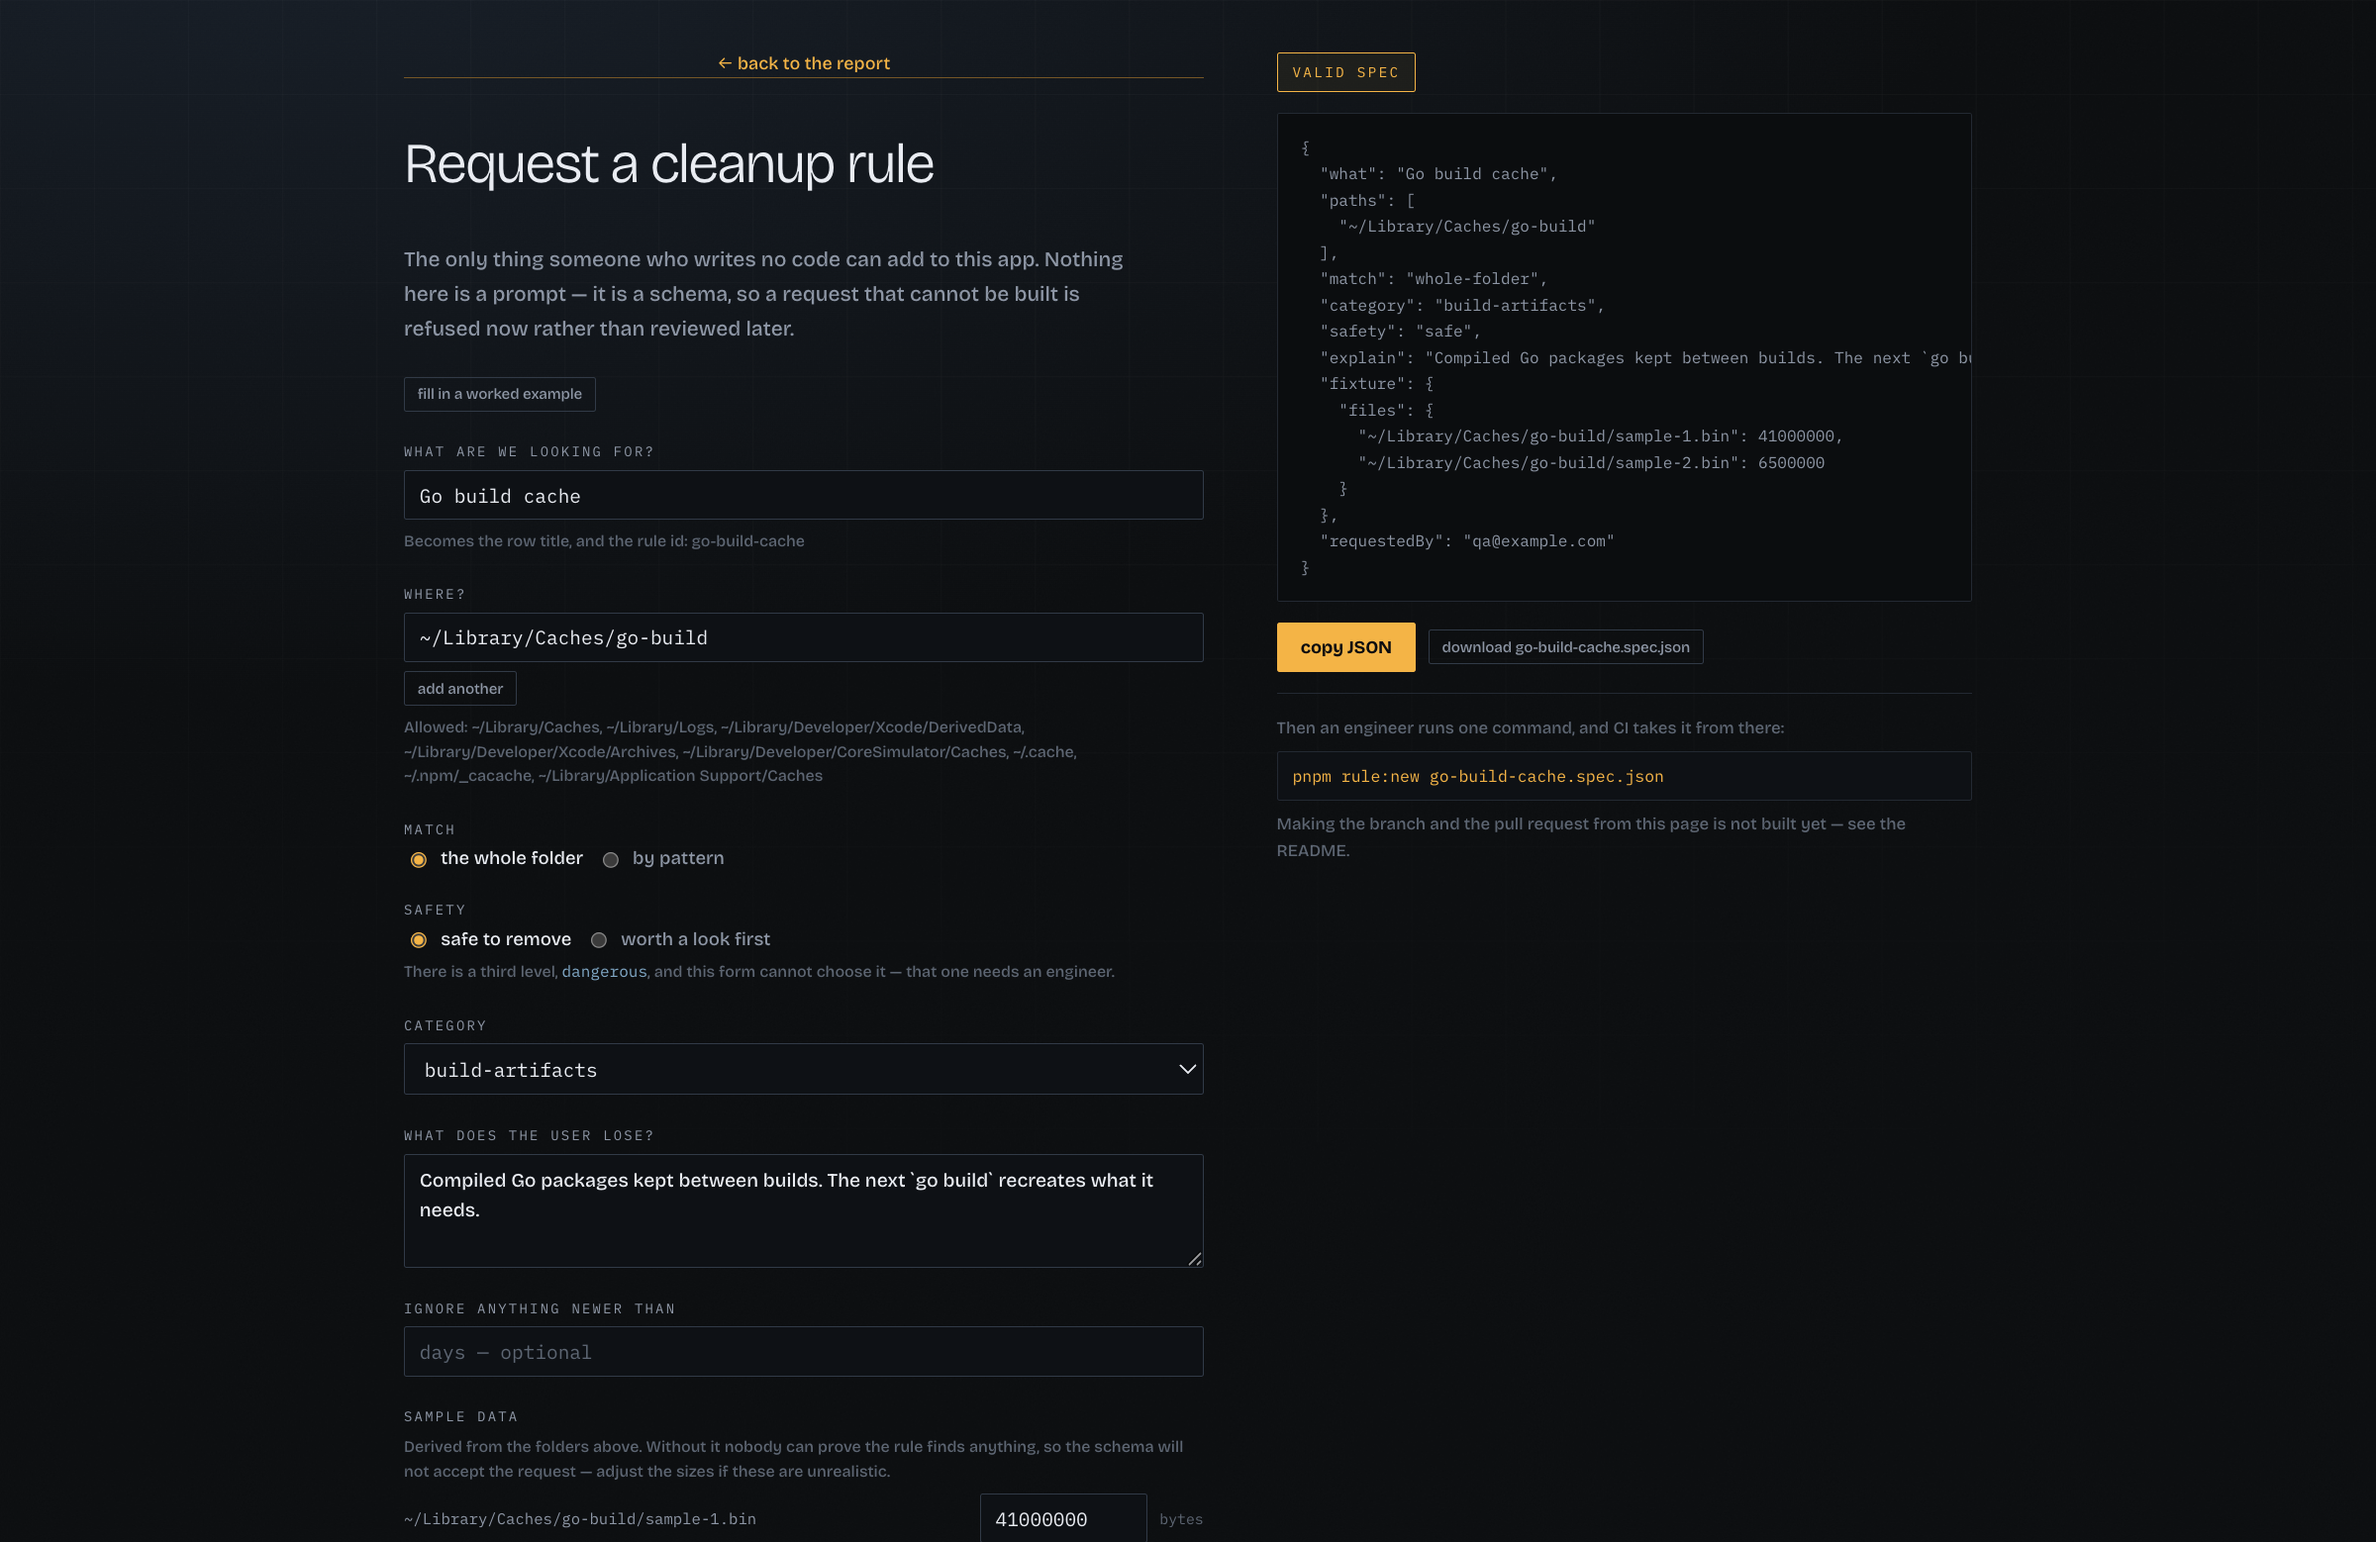
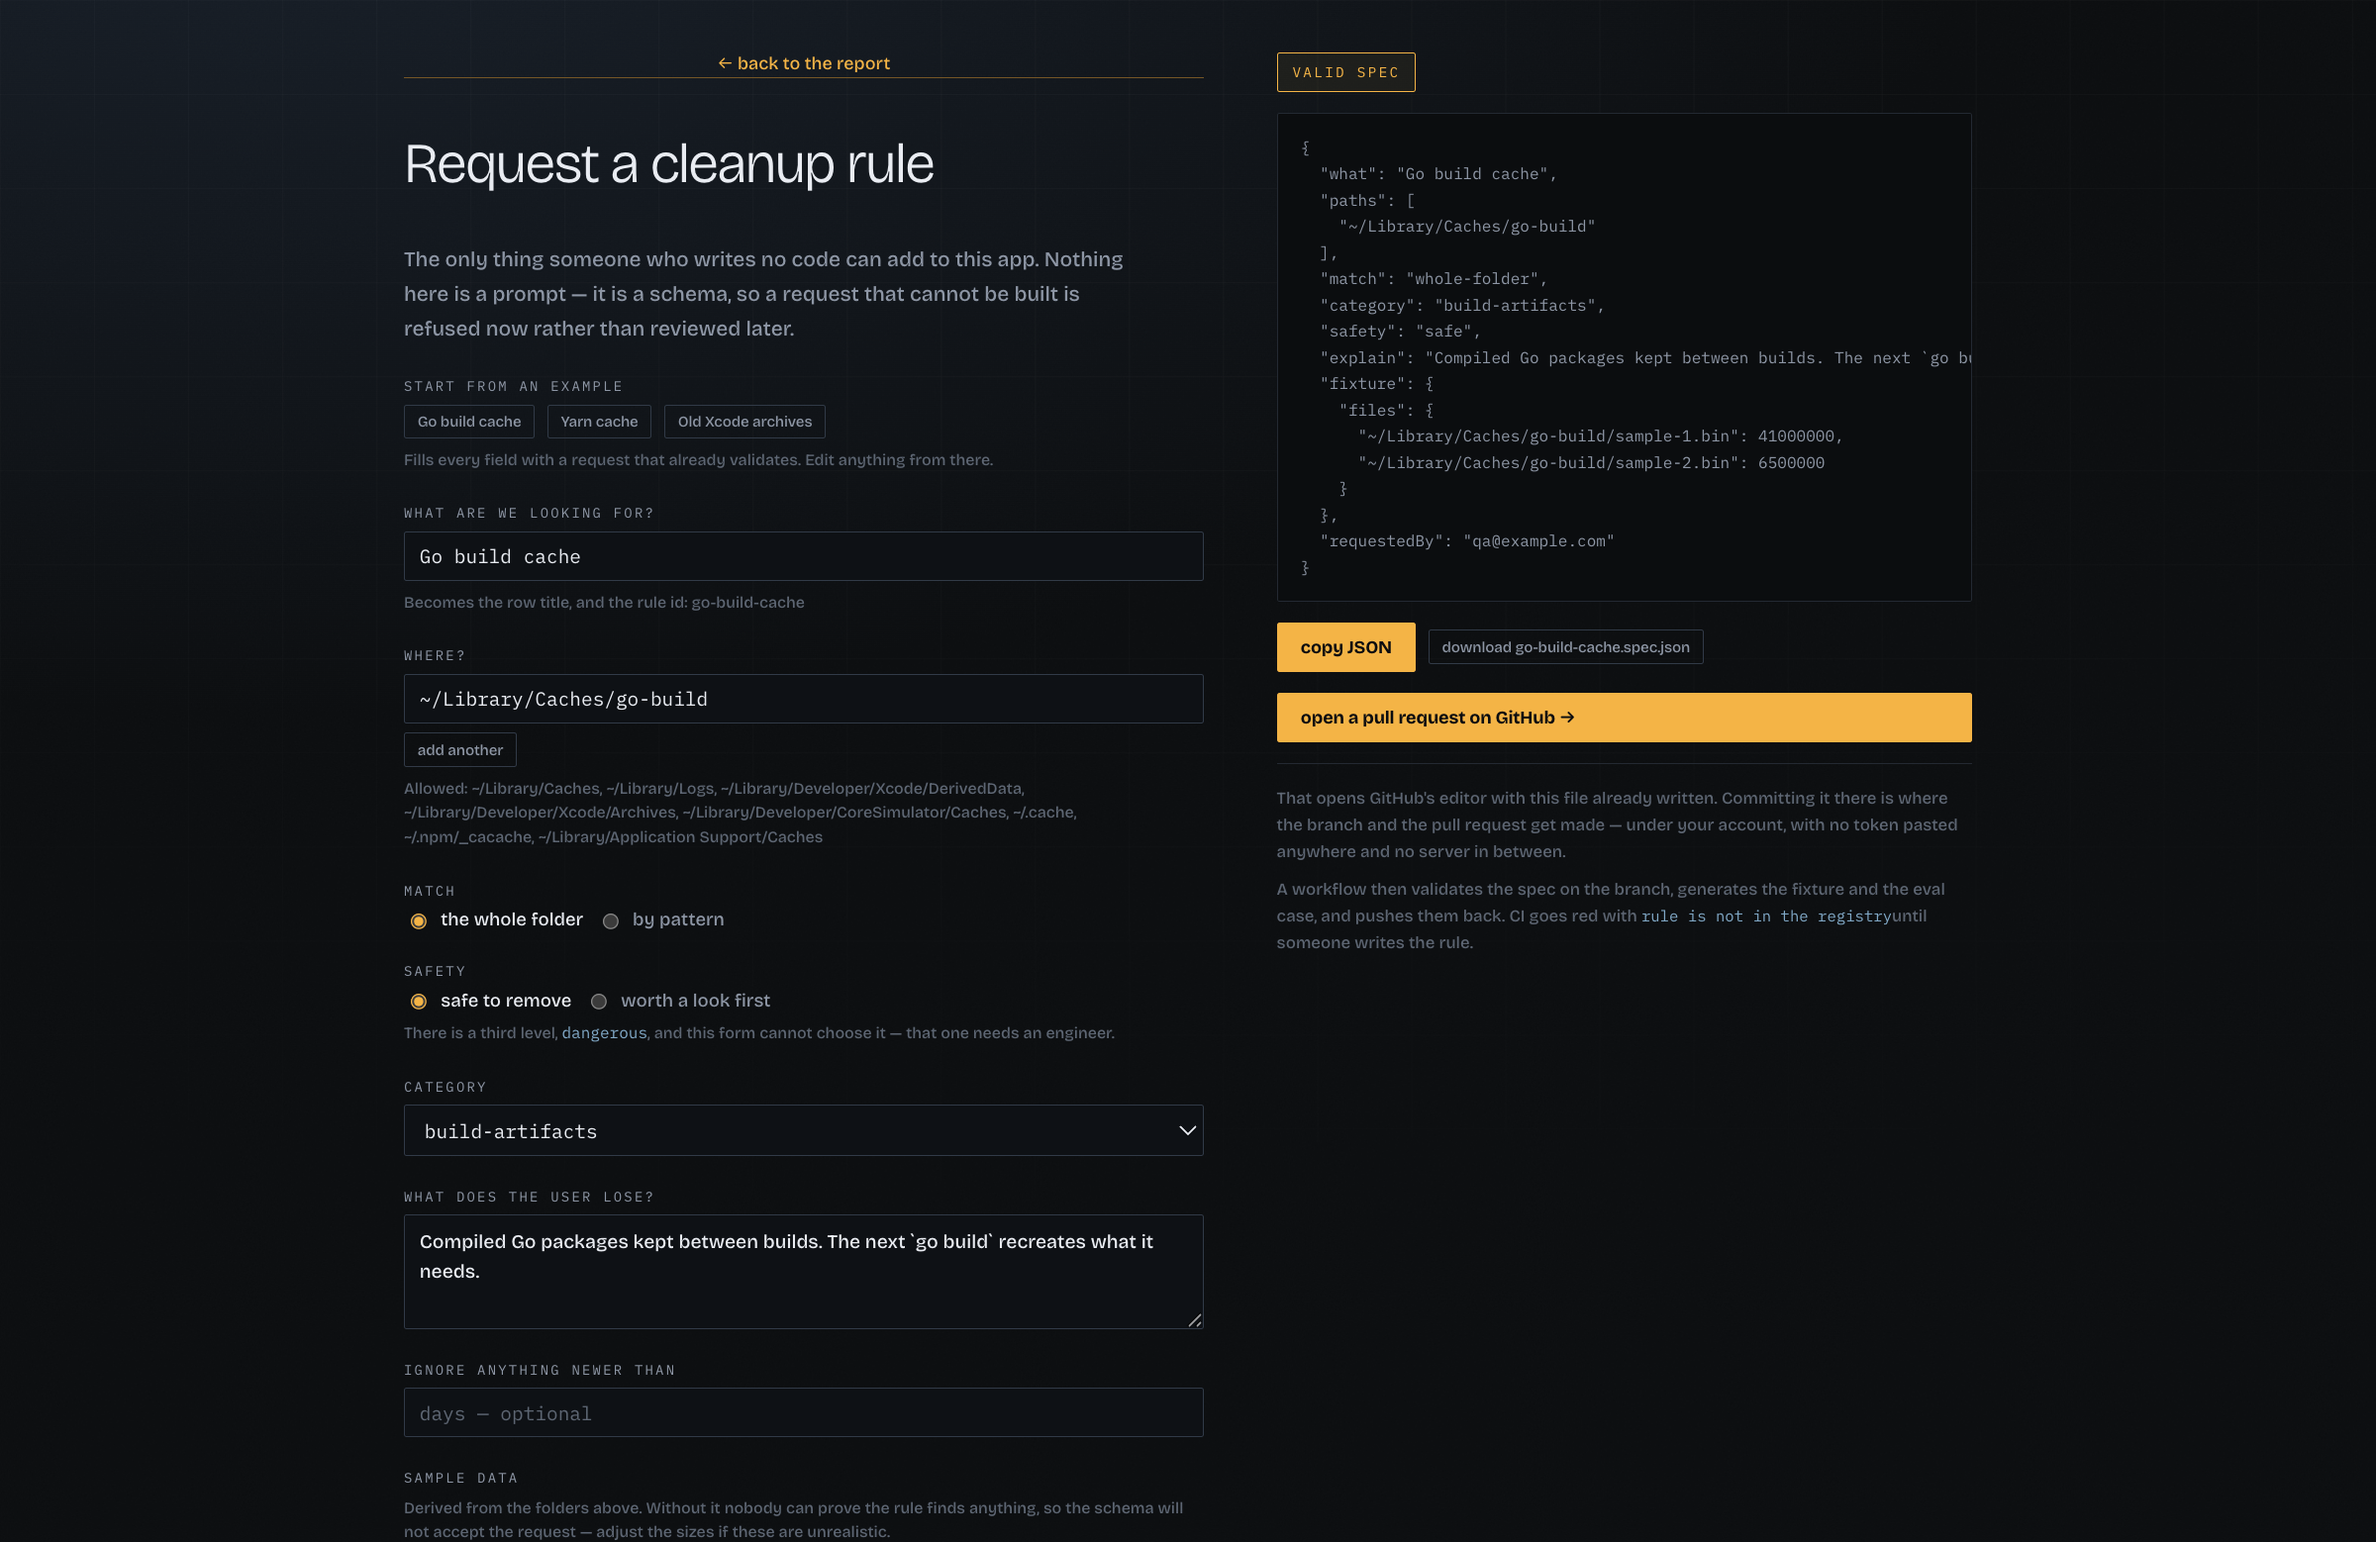
Refresh the form screenshot, and stop styling inline code as a block
The `rule is not in the registry` mention sits mid-sentence; the padded,
bordered treatment was meant for a command on its own line and broke the line
it was in.

Changed region(s): [[0.1562, 0.2465, 0.5, 1.0], [0.5312, 0.4313, 0.8438, 0.6162]]

diff --git a/packages/ui/src/styles.css b/packages/ui/src/styles.css
@@ -1215,12 +1215,8 @@ body::after {
 
 .request-next code {
   font-family: var(--mono);
-  font-size: 0.78rem;
-  color: var(--signal);
-  background: var(--ink-850);
-  border: 1px solid var(--line);
-  padding: 0.5rem 0.7rem;
-  border-radius: 2px;
+  font-size: 0.74rem;
+  color: var(--steel);
   overflow-wrap: anywhere;
 }
 
